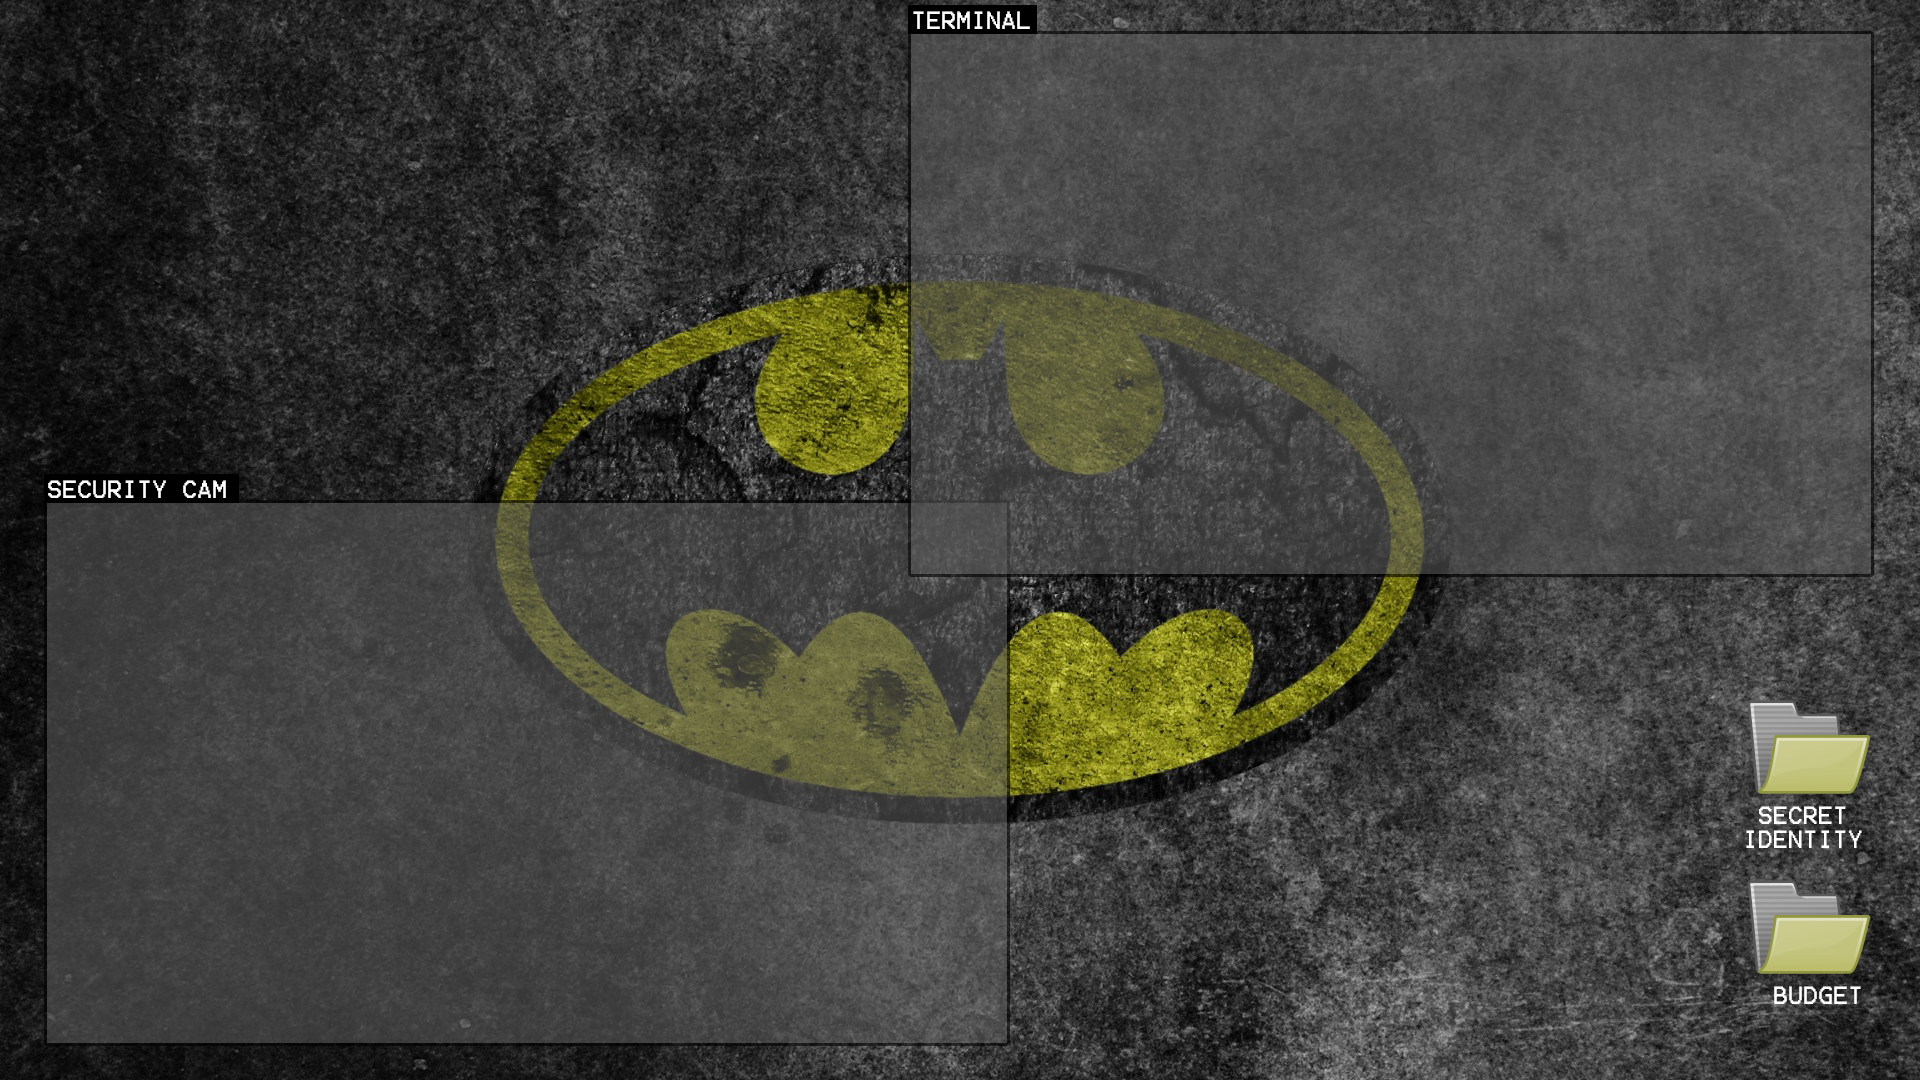
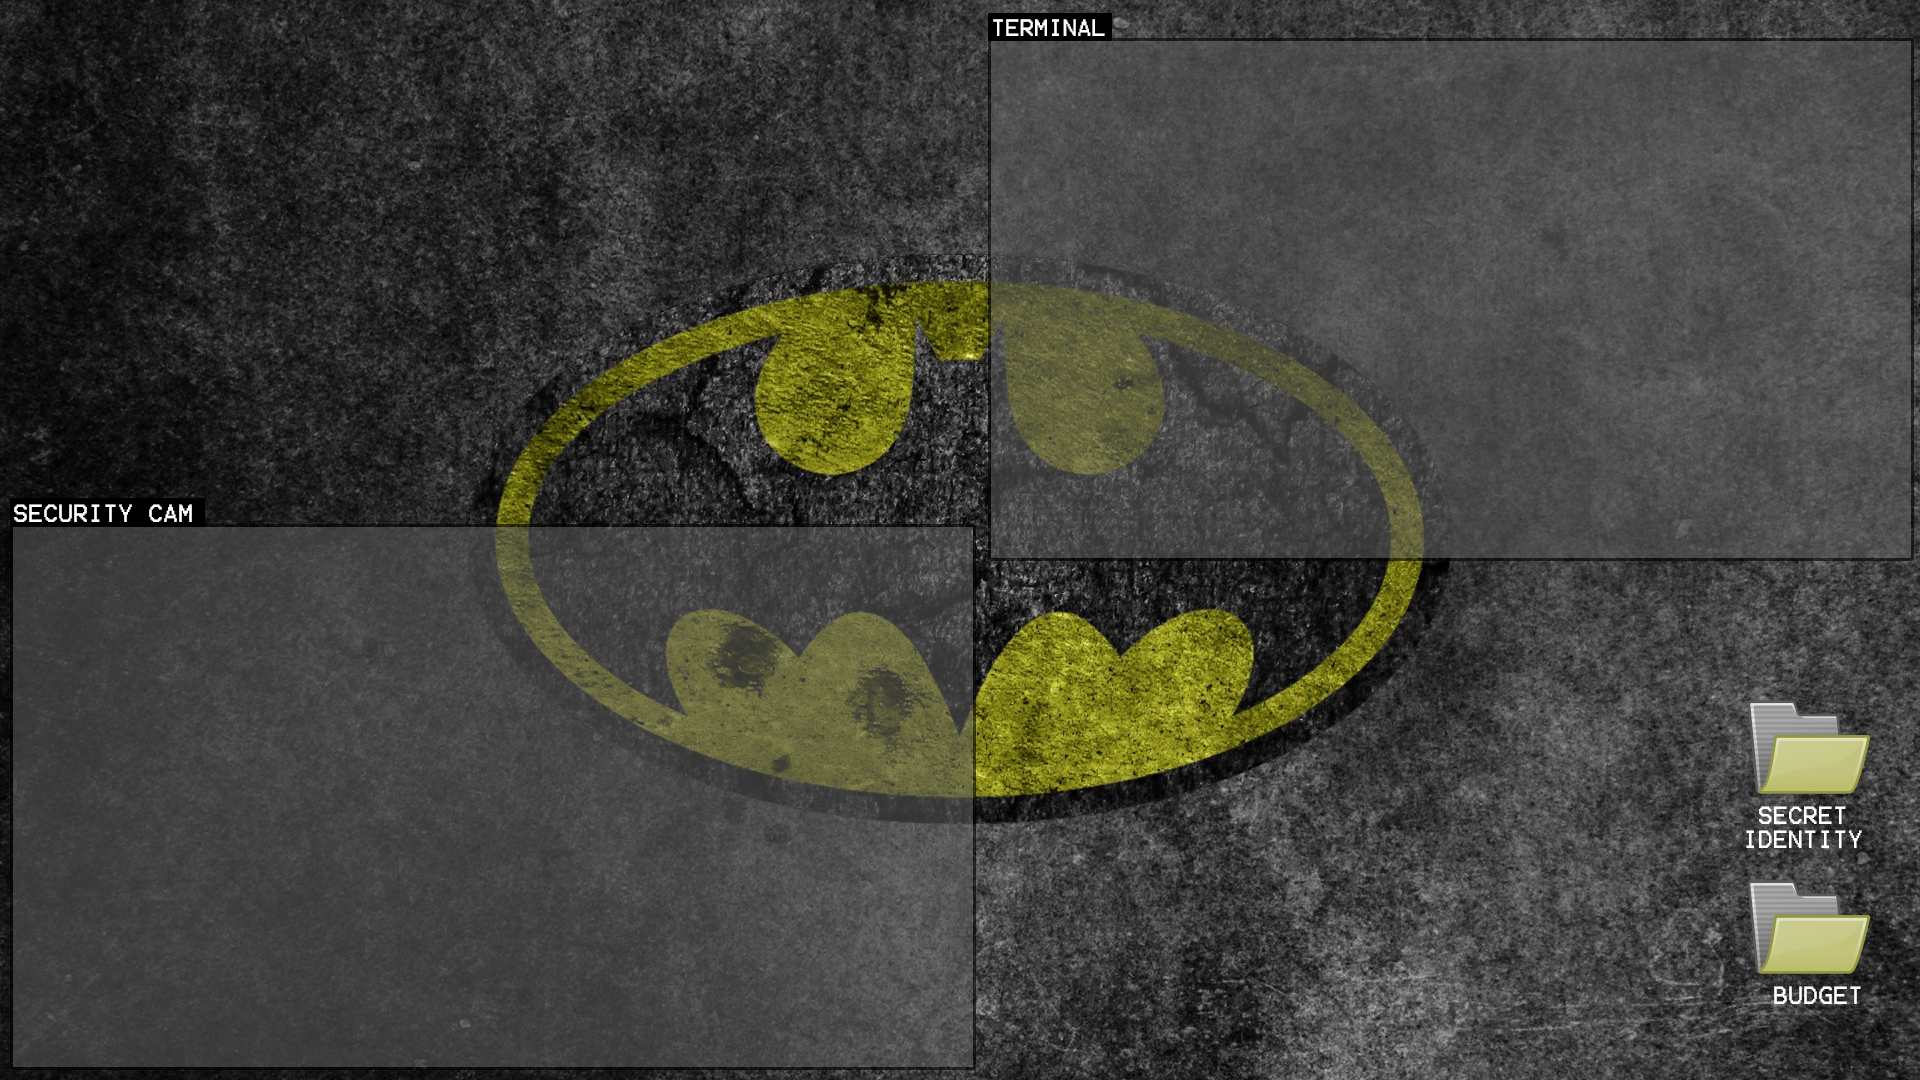
Updated wallpaper and alignments

Changed region(s): [[0.0, 0.0, 1.0, 1.0]]

diff --git a/batman.py b/batman.py
@@ -23,15 +23,15 @@ proc_23 = None
 proc_25 = None
 proc_18 = None
 
-sec_x1 = int(round((47) / subsample,0))
-sec_y1 = int(round((503) / subsample,0))
-sec_x2 = int(round((47 + 960) / subsample,0))
-sec_y2 = int(round((503 + 540) / subsample,0))
+sec_x1 = int(round((13) / subsample,0))
+sec_y1 = int(round((527) / subsample,0))
+sec_x2 = int(round((13 + 960) / subsample,0))
+sec_y2 = int(round((527 + 540) / subsample,0))
 
-code_x1 = int(round((911) / subsample,0))
-code_y1 = int(round((34) / subsample,0))
-code_x2 = int(round((911 + 960) / subsample,0))
-code_y2 = int(round((34 + 540) / subsample,0))
+code_x1 = int(round((990) / subsample,0))
+code_y1 = int(round((40) / subsample,0))
+code_x2 = int(round((990 + 517) / subsample,0))
+code_y2 = int(round((40 + 517) / subsample,0))
 
 full_x = int(round(1920 / subsample,0)) 
 full_y = int(round(1080 / subsample,0)) 
